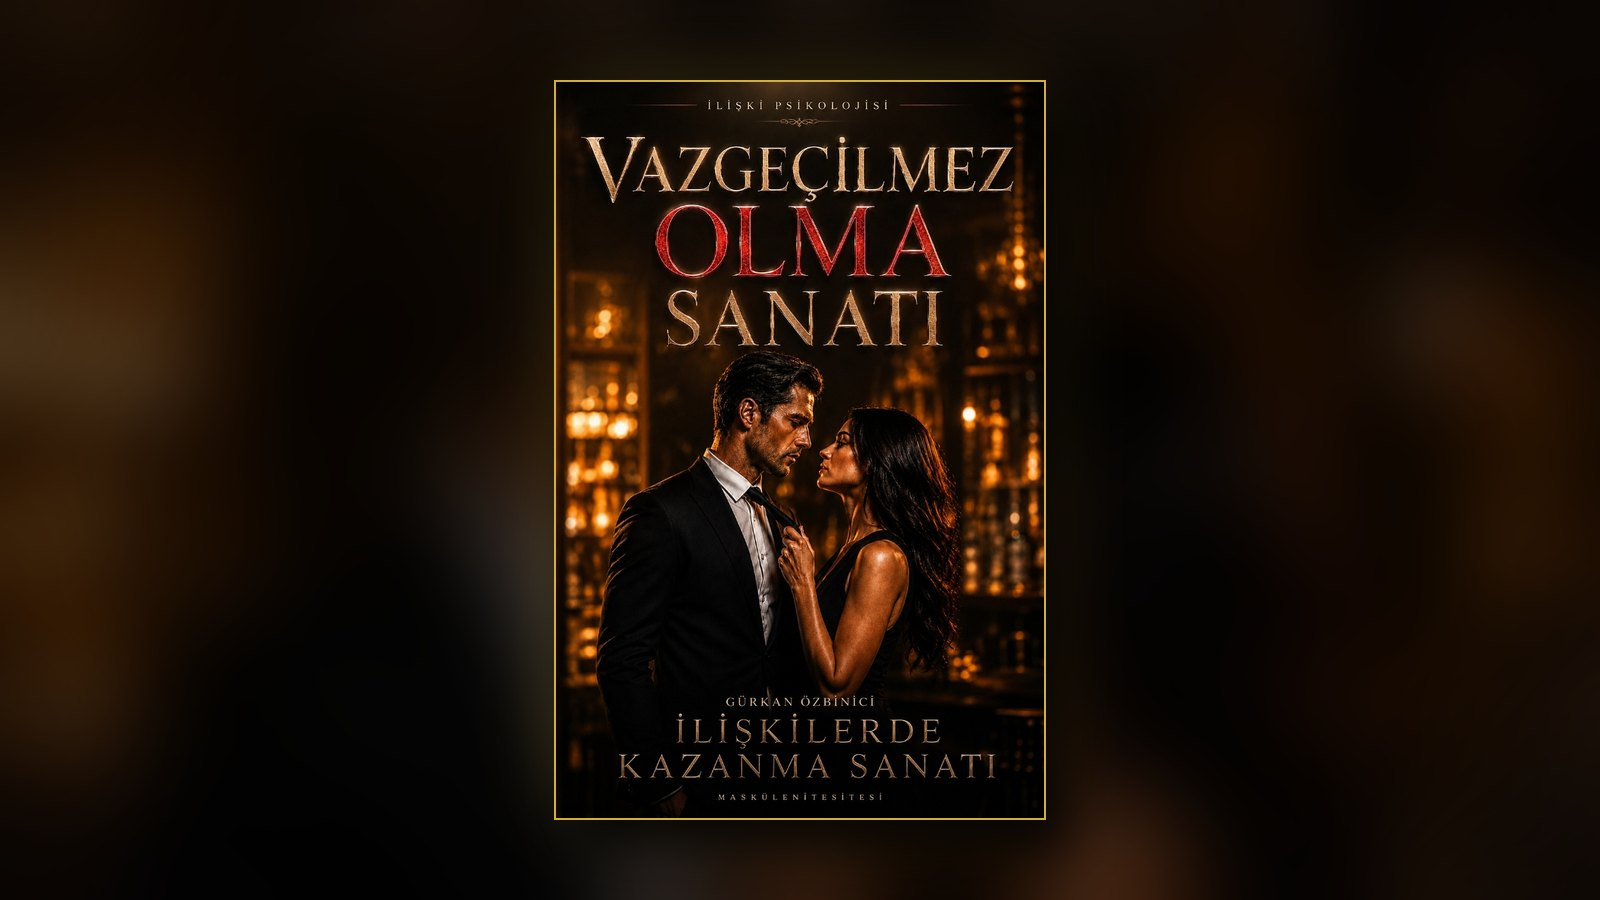
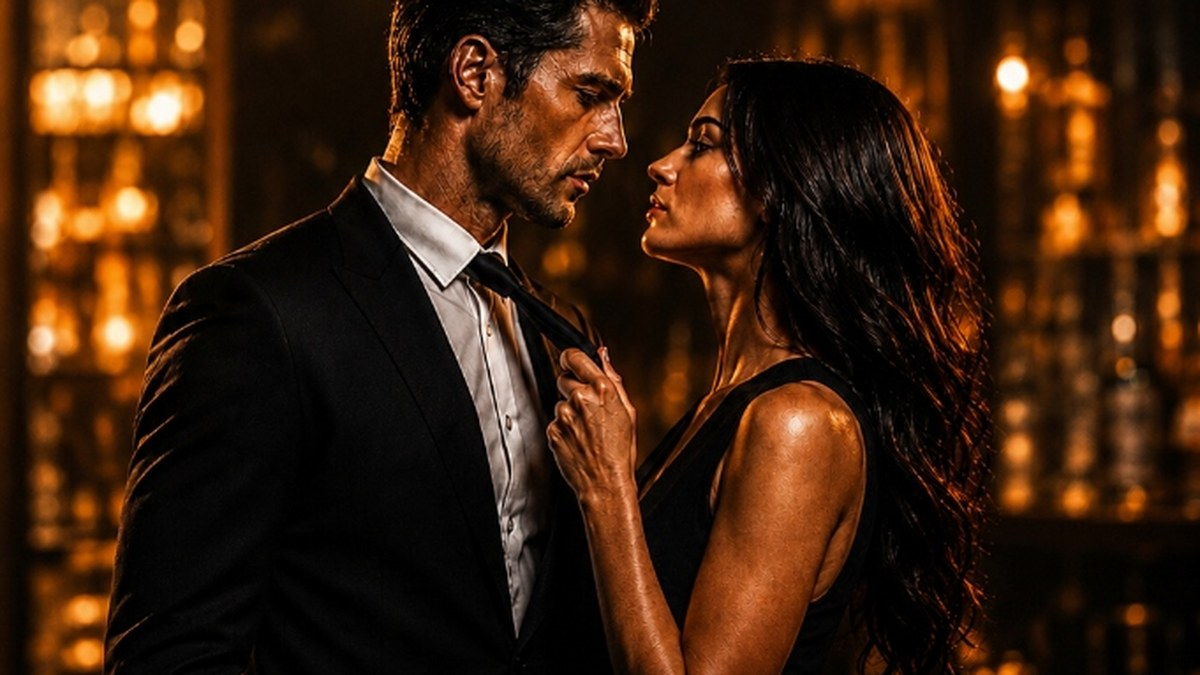
fix: blog kapaklarında eski dolu görünüm, yarım yazısız kırpımlar
Claude-Session: https://claude.ai/code/session_01UengpZNnzDmphKvXDdWPZN

diff --git a/src/content/blog.ts b/src/content/blog.ts
@@ -40,7 +40,7 @@ export const POSTS: BlogPost[] = [
     date: "2026-10-19",
     readMin: 6,
     book: "vazgecilmez",
-    cover: "/blog/vazgecilmez-olma-sanati-kitabi.jpg",
+    cover: "/vazgecilmez-yeni-kapak.jpg",
     keywords: ["vazgeçilmez olma sanatı", "vazgeçilmez olma sanatı kitabı", "gürkan özbinici kitap", "erkekler için ilişki kitabı", "maskülenlik"],
     body: `**Vazgeçilmez Olma Sanatı**, ilişkilerde sürekli kendini kanıtlamaya çalışan, alttan alan, taviz verdikçe değersizleşen erkekler için yazdığım bir kitap. Bir tavsiye kitabı değil; ilişkilerin arkasında işleyen güç dinamiklerini, çekim yasalarını ve saygının nasıl kazanıldığını açık açık anlatan bir yol haritası.
 
@@ -156,7 +156,7 @@ Kitabın ilk sayfalarını çıkıştan önce sitede paylaştım. "Kadın", "İs
     date: "2026-10-19",
     readMin: 4,
     book: "ikisi",
-    cover: "/blog/hangi-kitap-sana-gore.jpg",
+    cover: "/og-paylasim.jpg",
     keywords: ["vazgeçilmez olma sanatı", "çekicilik sanatı", "gürkan özbinici kitapları", "ilişki kitapları", "hangi kitap"],
     body: `Bana en çok gelen sorulardan biri: "Hangi kitabı okumalıyım?" Kısa cevap şu: **Vazgeçilmez Olma Sanatı erkekler için, Çekicilik Sanatı kadınlar için yazıldı.** Ama işin aslı biraz daha ilginç, çünkü iki kitap aynı ilişki dinamiklerini iki farklı taraftan anlatıyor.
 
